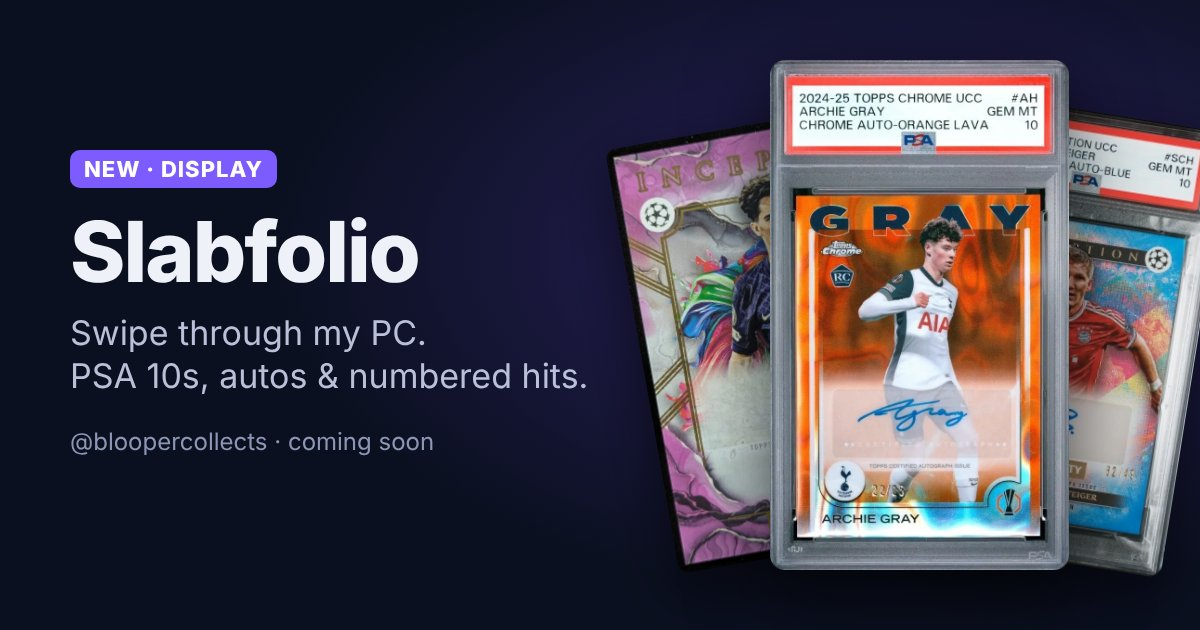
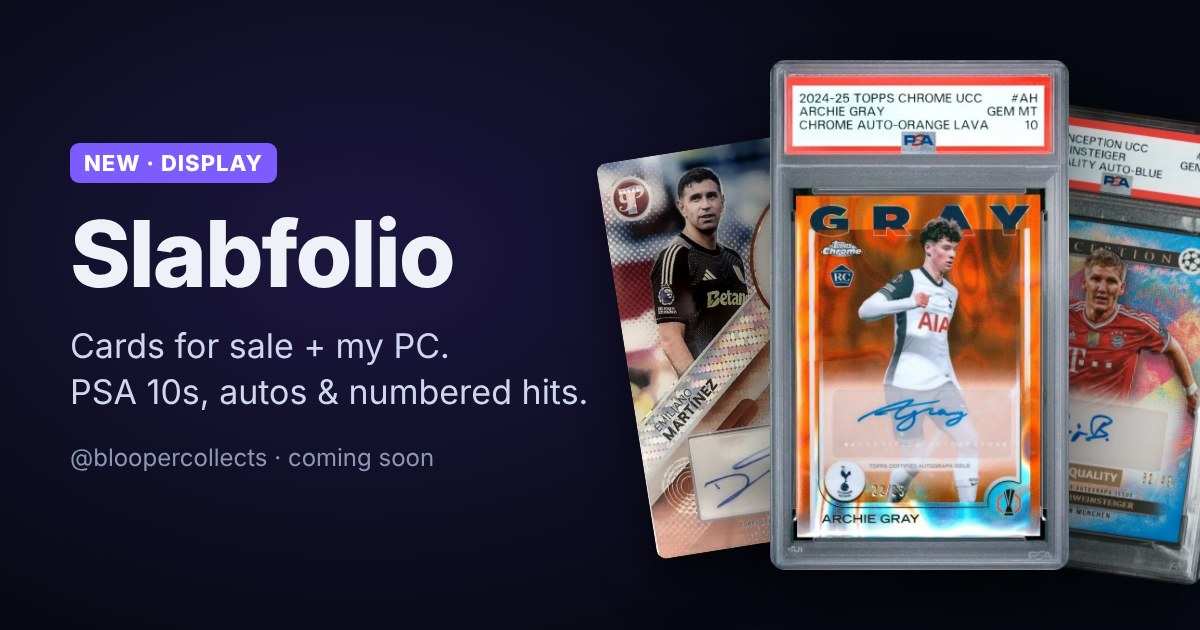
Display: small-screen fixes and new share image (#11)
* Add Display preview page for TikTok bio link

Claude-Session: https://claude.ai/code/session_01XpW3N9oSPbYnsic3YLs5AR

* Display: show bought price only on Road to $1K cards

Claude-Session: https://claude.ai/code/session_01XpW3N9oSPbYnsic3YLs5AR

* Display: swipe left/right between cards, tap to flip photos

Claude-Session: https://claude.ai/code/session_01XpW3N9oSPbYnsic3YLs5AR

* Display: add link preview image and share tags

Claude-Session: https://claude.ai/code/session_01XpW3N9oSPbYnsic3YLs5AR

* Display: fill Last sold from recent eBay sales

Claude-Session: https://claude.ai/code/session_01XpW3N9oSPbYnsic3YLs5AR

* Display: For sale and PC tabs, Buy / Make offer via IG or TikTok DM

Claude-Session: https://claude.ai/code/session_01XpW3N9oSPbYnsic3YLs5AR

* Display: list Yamal Kopa at S$25

Claude-Session: https://claude.ai/code/session_01XpW3N9oSPbYnsic3YLs5AR

* Display: fix IG/TikTok handle to @bloopercollects so DM buttons open the right profile

Claude-Session: https://claude.ai/code/session_01XpW3N9oSPbYnsic3YLs5AR

* Display: link buttons to IG/TikTok profiles (open in app) instead of DM deep link

Claude-Session: https://claude.ai/code/session_01XpW3N9oSPbYnsic3YLs5AR

* Display: remove Vitinha from For sale (sold 6 Nov)

Claude-Session: https://claude.ai/code/session_01XpW3N9oSPbYnsic3YLs5AR

* Display v2: card-first header, grid view, sort, share links, bundle offers, Sold tab, floating tab bar

Also fixes the page opening scrolled past the header.
[…]

diff --git a/display/index.html b/display/index.html
@@ -11,13 +11,13 @@
 <meta property="og:type" content="website">
 <meta property="og:site_name" content="Slabfolio">
 <meta property="og:url" content="https://belipede.github.io/slabfolio-web/display/">
-<meta property="og:title" content="Slabfolio · Swipe through my PC">
-<meta property="og:description" content="My cards in Slabfolio's new Display carousel. Slabfolio is coming soon.">
-<meta property="og:image" content="https://belipede.github.io/slabfolio-web/display/og.jpg">
+<meta property="og:title" content="Slabfolio · My cards, for sale and PC">
+<meta property="og:description" content="Swipe my cards for sale and my PC in Slabfolio's new Display. Slabfolio is coming soon.">
+<meta property="og:image" content="https://belipede.github.io/slabfolio-web/display/og.jpg?v=2">
 <meta property="og:image:width" content="1200">
 <meta property="og:image:height" content="630">
 <meta name="twitter:card" content="summary_large_image">
-<meta name="twitter:image" content="https://belipede.github.io/slabfolio-web/display/og.jpg">
+<meta name="twitter:image" content="https://belipede.github.io/slabfolio-web/display/og.jpg?v=2">
 <link rel="apple-touch-icon" href="../apple-touch-icon.png">
 <link rel="icon" href="../icon-192.png">
 <style>
@@ -245,6 +245,7 @@ a{color:inherit}
 .bbar .btn{padding:9px 14px;font-size:14px;border-radius:13px}
 .bbar .clr{color:var(--mute);font-size:13px;padding:6px}
 .msg{white-space:pre-line}
+.offer input::placeholder{font-size:16px;font-weight:500}
 /* floating glass tab bar */
 .tabbar{left:12px;right:12px;bottom:calc(10px + var(--safe-b));padding:6px;border-radius:32px;background:rgba(28,34,58,.62);backdrop-filter:saturate(190%) blur(26px);-webkit-backdrop-filter:saturate(190%) blur(26px);border:1px solid rgba(255,255,255,.13);border-top:1px solid rgba(255,255,255,.2);box-shadow:0 12px 34px rgba(0,0,0,.5),inset 0 1px 0 rgba(255,255,255,.08)}
 @media (max-width:599px){.tabbar{max-width:416px}}
@@ -574,7 +575,7 @@ function buyMsg(){if(buyK==='bundle'){const l=bunList(),v=parseFloat($('#offerIn
   if(buyK==='buy')return `Hi! I'd like to buy your ${name} for ${money(c.ask)}. Seen on your Slabfolio display. Is it still available?`;
   const v=parseFloat($('#offerIn').value);return `Hi! I saw your ${name} on your Slabfolio display. Would you take ${v>0?money(v):'S$__'} for it?`;}
 function openBuy(id,k){buyK=k;if(k==='bundle'){const l=bunList();if(!l.length)return;buyC=l[0];$('#byTitle').textContent='Bundle';$('#byImg').src='img/'+buyC.photos[0]+'.webp';
-    $('#byName').innerHTML=`${l.length} card${l.length>1?'s':''}<small>${bunTotal()?'Asking '+money(bunTotal())+' in total':'Make an offer'}</small>`;$('#offerIn').placeholder='Your offer for the lot (optional)';}
+    $('#byName').innerHTML=`${l.length} card${l.length>1?'s':''}<small>${bunTotal()?'Asking '+money(bunTotal())+' in total':'Make an offer'}</small>`;$('#offerIn').placeholder='Offer for the lot (optional)';}
   else{buyC=CARDS.find(c=>c.id===id);$('#byTitle').textContent=k==='buy'?'Buy':'Make an offer';$('#offerIn').placeholder='Your offer';
   $('#byImg').src='img/'+buyC.photos[0]+'.webp';$('#byName').innerHTML=`${buyC.name}<small>${buyC.ask?'Asking '+money(buyC.ask):'Make an offer · arrives December'}</small>`;}
   $('#byOffer').style.display=k==='buy'?'none':'flex';$('#offerIn').value='';$('#byMsg').textContent=buyMsg();
@@ -612,7 +613,7 @@ const svg=k=>`<svg viewBox="0 0 24 24" fill="none" stroke="currentColor" stroke-
 $('#tabbar').innerHTML=TABS.map(([k,l])=>`<button class="tab${k==='display'?' on':''}" data-go="${k}">${svg(k)}<span>${l}</span>${k==='display'?'<span class="dot">NEW</span>':'<span class="soon"></span>'}</button>`).join('');
 function go(k){
   document.querySelectorAll('.tab').forEach(t=>t.classList.toggle('on',t.dataset.go===k));
-  const isD=k==='display';$('#v-display').style.display=isD?'':'none';$('#v-soon').style.display=isD?'none':'flex';
+  const isD=k==='display';$('#bbar').style.display=isD?'':'none';$('#v-display').style.display=isD?'':'none';$('#v-soon').style.display=isD?'none':'flex';
   if(!isD){const t=TABS.find(x=>x[0]===k);$('#soonTitle').textContent=t[1];$('#soonText').textContent=t[2];$('#soonIcon').innerHTML=svg(k);}
   window.scrollTo(0,0);
 }
